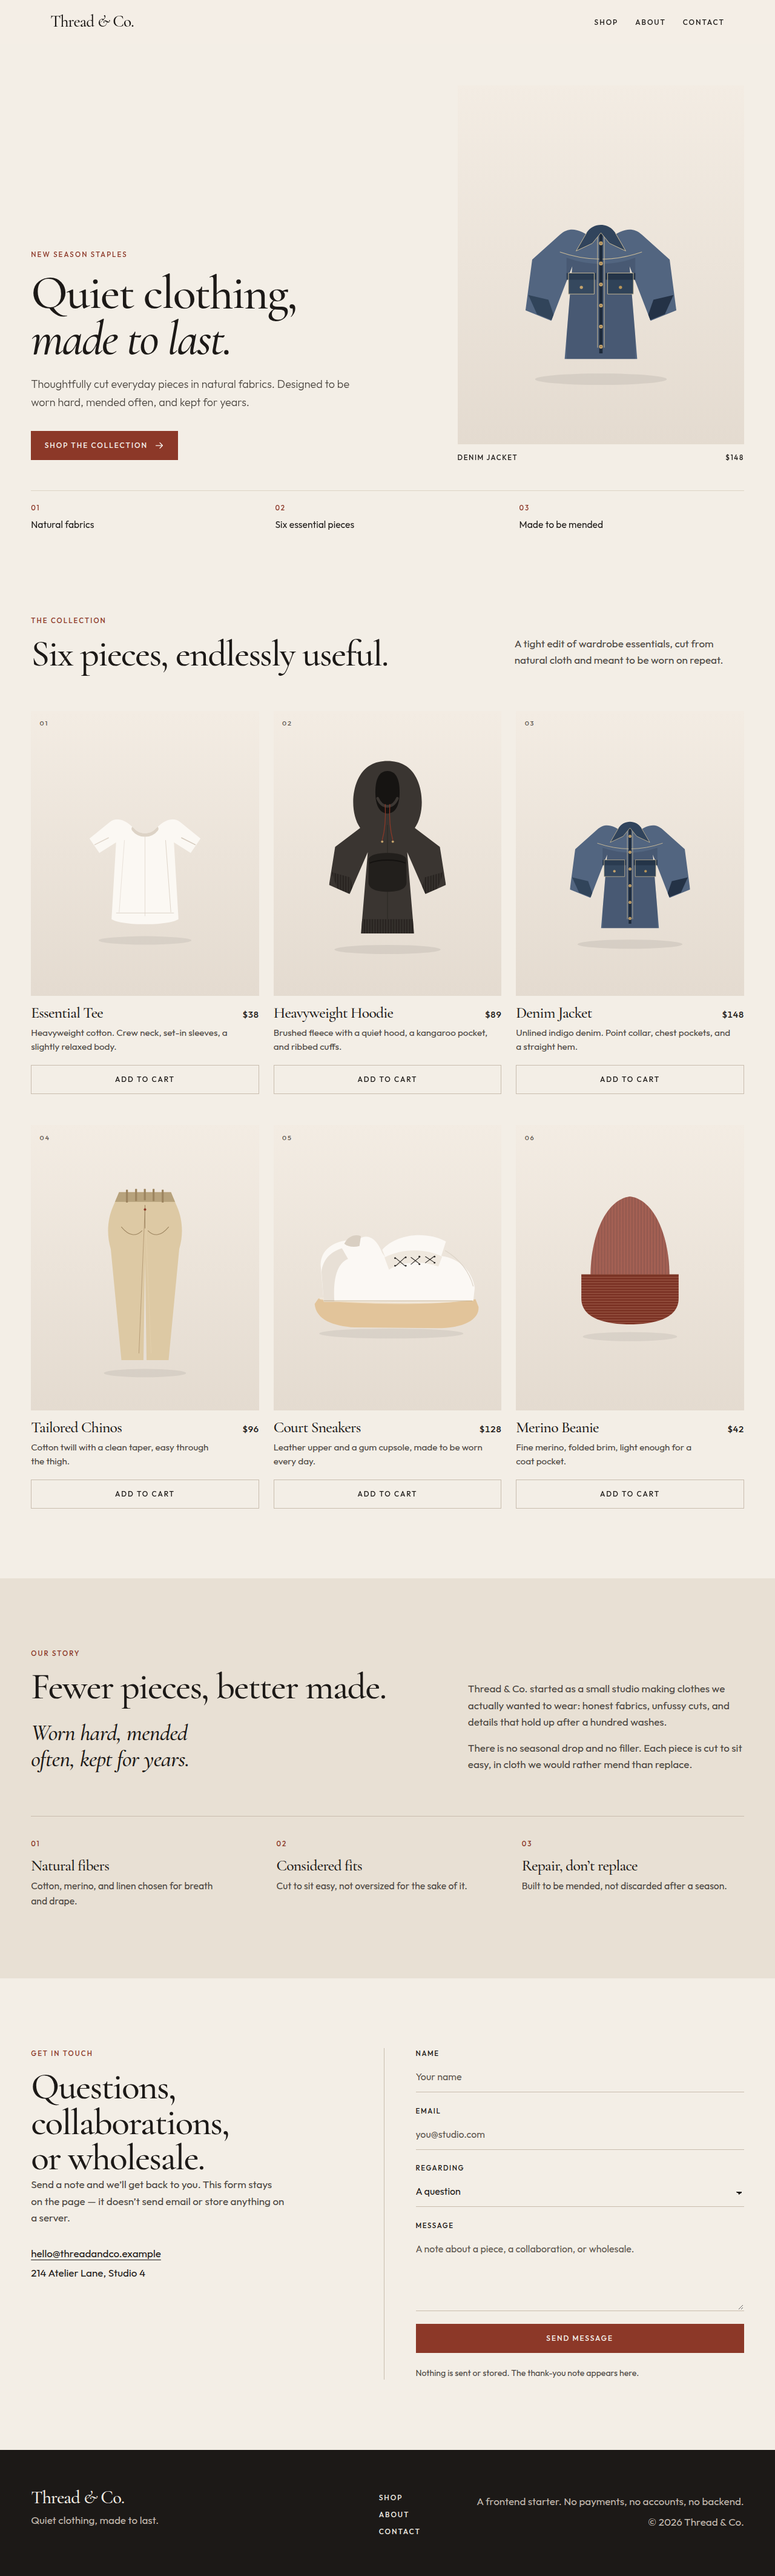
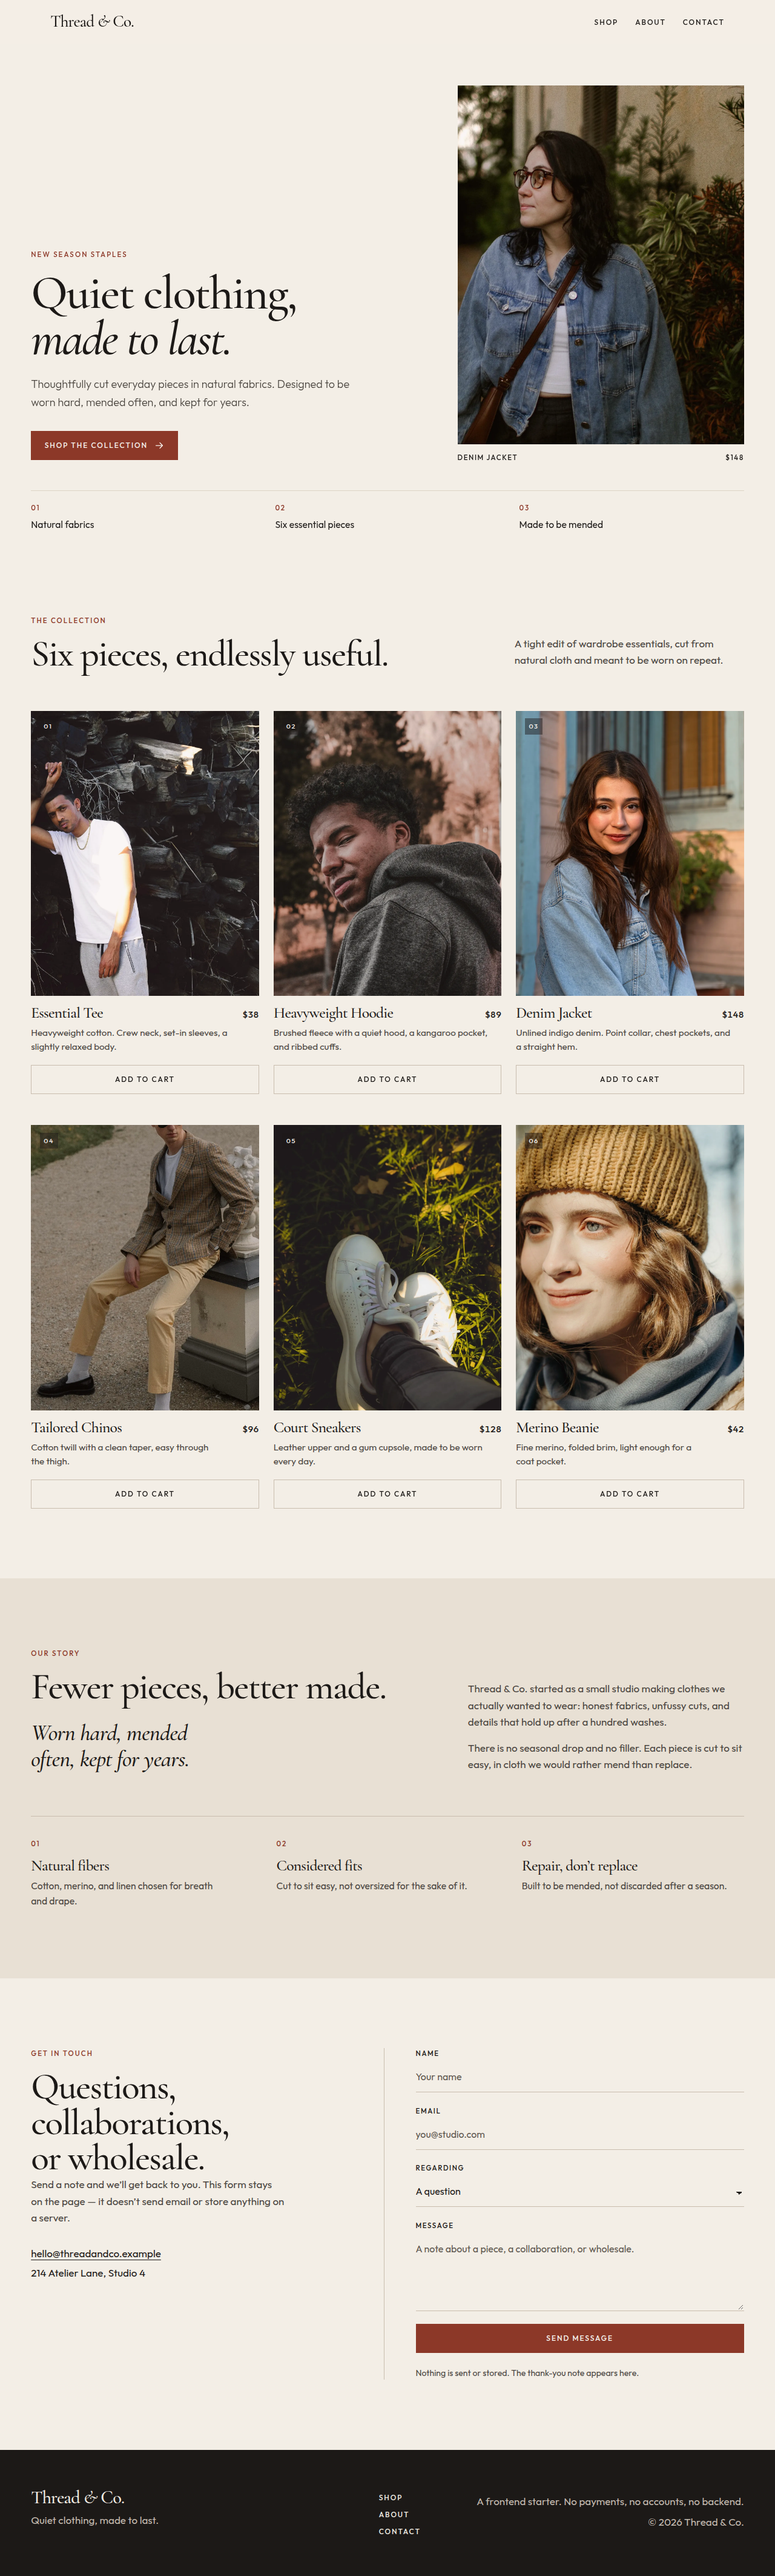
Replace product illustrations with licensed lifestyle photos. (#2)
Use warm, editorial Pexels photographs for the hero and all six pieces, cropped to a fixed 4:5 WebP, with credits and updated screenshots.

Changed region(s): [[0.0312, 0.2485, 0.9688, 0.4038], [0.0312, 0.4348, 0.9688, 0.5591], [0.5938, 0.0311, 0.9688, 0.1864]]

diff --git a/index.html b/index.html
@@ -51,7 +51,7 @@
 
         <figure class="hero-visual">
           <div class="hero-frame">
-            <img src="assets/denim-jacket.svg" alt="" width="600" height="750">
+            <img src="assets/photos/denim-jacket-hero.webp" alt="" width="1280" height="1600" fetchpriority="high" decoding="async">
           </div>
           <figcaption>
             <a href="#denim-jacket">Denim Jacket</a>
@@ -82,7 +82,7 @@
             <article>
               <div class="product-media">
                 <span class="plate" aria-hidden="true">01</span>
-                <img src="assets/tee.svg" alt="Ivory essential crewneck T-shirt with set-in sleeves" width="600" height="750">
+                <img src="assets/photos/essential-tee.webp" alt="Person in a plain ivory crewneck T-shirt, standing in warm sunlight against stacked logs" width="1280" height="1600" loading="lazy" decoding="async">
               </div>
               <div class="product-info">
                 <div class="product-heading">
@@ -99,7 +99,7 @@
             <article>
               <div class="product-media">
                 <span class="plate" aria-hidden="true">02</span>
-                <img src="assets/hoodie.svg" alt="Charcoal heavyweight pullover hoodie with a kangaroo pocket" width="600" height="750">
+                <img src="assets/photos/heavyweight-hoodie.webp" alt="Person in a heather grey pullover hoodie, outdoors among trees in warm light" width="1280" height="1600" loading="lazy" decoding="async">
               </div>
               <div class="product-info">
                 <div class="product-heading">
@@ -116,7 +116,7 @@
             <article>
               <div class="product-media">
                 <span class="plate" aria-hidden="true">03</span>
-                <img src="assets/denim-jacket.svg" alt="Indigo denim jacket with a point collar and chest pockets" width="600" height="750">
+                <img src="assets/photos/denim-jacket.webp" alt="Person wearing a light-wash denim jacket with chest pockets, in warm afternoon light" width="1280" height="1600" loading="lazy" decoding="async">
               </div>
               <div class="product-info">
                 <div class="product-heading">
@@ -133,7 +133,7 @@
             <article>
               <div class="product-media">
                 <span class="plate" aria-hidden="true">04</span>
-                <img src="assets/chinos.svg" alt="Sand tailored chino trousers with a tapered leg" width="600" height="750">
+                <img src="assets/photos/tailored-chinos.webp" alt="Person in sand tailored trousers, seated in a formal garden" width="1280" height="1600" loading="lazy" decoding="async">
               </div>
               <div class="product-info">
                 <div class="product-heading">
@@ -150,7 +150,7 @@
             <article>
               <div class="product-media">
                 <span class="plate" aria-hidden="true">05</span>
-                <img src="assets/sneakers.svg" alt="Ivory court sneaker with a gum sole, shown in profile" width="600" height="750">
+                <img src="assets/photos/court-sneakers.webp" alt="White leather court sneakers on grass in warm sunlight" width="1280" height="1600" loading="lazy" decoding="async">
               </div>
               <div class="product-info">
                 <div class="product-heading">
@@ -167,7 +167,7 @@
             <article>
               <div class="product-media">
                 <span class="plate" aria-hidden="true">06</span>
-                <img src="assets/beanie.svg" alt="Rust merino beanie with a ribbed crown and folded cuff" width="600" height="750">
+                <img src="assets/photos/merino-beanie.webp" alt="Person wearing a ribbed mustard knit beanie in a sunlit winter woodland" width="1280" height="1600" loading="lazy" decoding="async">
               </div>
               <div class="product-info">
                 <div class="product-heading">

diff --git a/css/styles.css b/css/styles.css
@@ -484,13 +484,15 @@ h1 em {
 
 .plate {
   position: absolute;
-  z-index: 1;
+  z-index: 2;
   top: 0.8rem;
   left: 0.9rem;
+  padding: 0.28rem 0.42rem;
   font-size: 0.68rem;
   font-weight: 500;
-  letter-spacing: 0.16em;
-  color: var(--muted);
+  letter-spacing: 0.14em;
+  color: var(--on-accent);
+  background: rgba(28, 25, 23, 0.46);
 }
 
 .product-info {

diff --git a/README.md b/README.md
@@ -10,7 +10,8 @@ A quiet, single-page clothing storefront. It is a static starter: a hero, six pi
 ├── css/styles.css
 ├── js/main.js
 ├── assets/
-│   ├── tee.svg
+│   ├── photos/           Lifestyle photographs (WebP, 4:5) and CREDITS.md
+│   ├── tee.svg           Earlier illustration, not used on the page
 │   ├── hoodie.svg
 │   ├── denim-jacket.svg
 │   ├── chinos.svg
@@ -33,7 +34,7 @@ python3 -m http.server 8000
 
 Then visit [http://localhost:8000](http://localhost:8000).
 
-No install or compile step is required. Typography uses Google Fonts (Cormorant Garamond for headlines, Outfit for text). Offline, the page falls back to a system serif and sans. Product art is local SVG, so the shop works without a network.
+No install or compile step is required. Typography uses Google Fonts (Cormorant Garamond for headlines, Outfit for text). Offline, the page falls back to a system serif and sans. Product and hero photographs are local WebP files, so the shop works without a network. Sources and the Pexels License are listed in `assets/photos/CREDITS.md`.
 
 ## What the page does
 
@@ -47,7 +48,7 @@ No install or compile step is required. Typography uses Google Fonts (Cormorant 
 - **Name:** “Thread & Co.” appears in the header, footer, and document title.
 - **Color:** edit the variables at the top of `css/styles.css`. The palette is ivory, charcoal, and rust.
 - **Type:** the Google Fonts link is in `index.html`. Families are also set on `--font-serif` and `--font-sans`.
-- **Pieces:** edit the six product cards in `index.html`. Keep images at a 4:5 ratio if you replace the SVGs. Update the name, price, description, and `alt` text together.
+- **Pieces:** edit the six product cards in `index.html`. Photographs live in `assets/photos/` at a 4:5 ratio (1280×1600). Update the name, price, description, and `alt` text together, and add any new photo to `assets/photos/CREDITS.md`.
 - **Copy:** the hero, about story, and contact details are the brand text. The footer disclaimer should stay if the page is still only a frontend.
 
 Motion is limited to a short hero entrance, hover on product images, and the menu and toast. It is skipped when the visitor has `prefers-reduced-motion` set.

diff --git a/assets/photos/CREDITS.md b/assets/photos/CREDITS.md
@@ -1,0 +1,15 @@
+# Photo credits
+
+Lifestyle photographs for the shop and hero. Each file is a 4:5 crop, warmed slightly so the set shares one grade, then saved as WebP with the long edge at 1600px.
+
+All six sources are free to use under the [Pexels License](https://www.pexels.com/license/), including commercial use. Attribution is not required by the license; it is listed here anyway.
+
+| File | Used for | Photographer | Source |
+| --- | --- | --- | --- |
+| `essential-tee.webp` | Essential Tee | Shazard R. | https://www.pexels.com/photo/outdoor-portrait-of-man-in-white-t-shirt-12624307/ |
+| `heavyweight-hoodie.webp` | Heavyweight Hoodie | Missael Balboa | https://www.pexels.com/photo/man-in-gray-hoodie-5978628/ |
+| `denim-jacket-hero.webp` | Hero frame | Helena Lopes | https://www.pexels.com/photo/casual-outdoor-portrait-of-woman-in-denim-jacket-39053753/ |
+| `denim-jacket.webp` | Denim Jacket | Oktay Köseoğlu | https://www.pexels.com/photo/young-woman-smiling-outdoors-in-denim-jacket-30526299/ |
+| `tailored-chinos.webp` | Tailored Chinos | Elina Volkova | https://www.pexels.com/photo/a-man-in-brown-suit-jacket-and-beige-pants-12056641/ |
+| `court-sneakers.webp` | Court Sneakers | Brittney (Galaxii Starr) | https://www.pexels.com/photo/person-wearing-white-sneakers-13890679/ |
+| `merino-beanie.webp` | Merino Beanie | cottonbro studio | https://www.pexels.com/photo/selective-focus-photo-of-a-woman-wearing-a-brown-knitted-cap-7481666/ |
